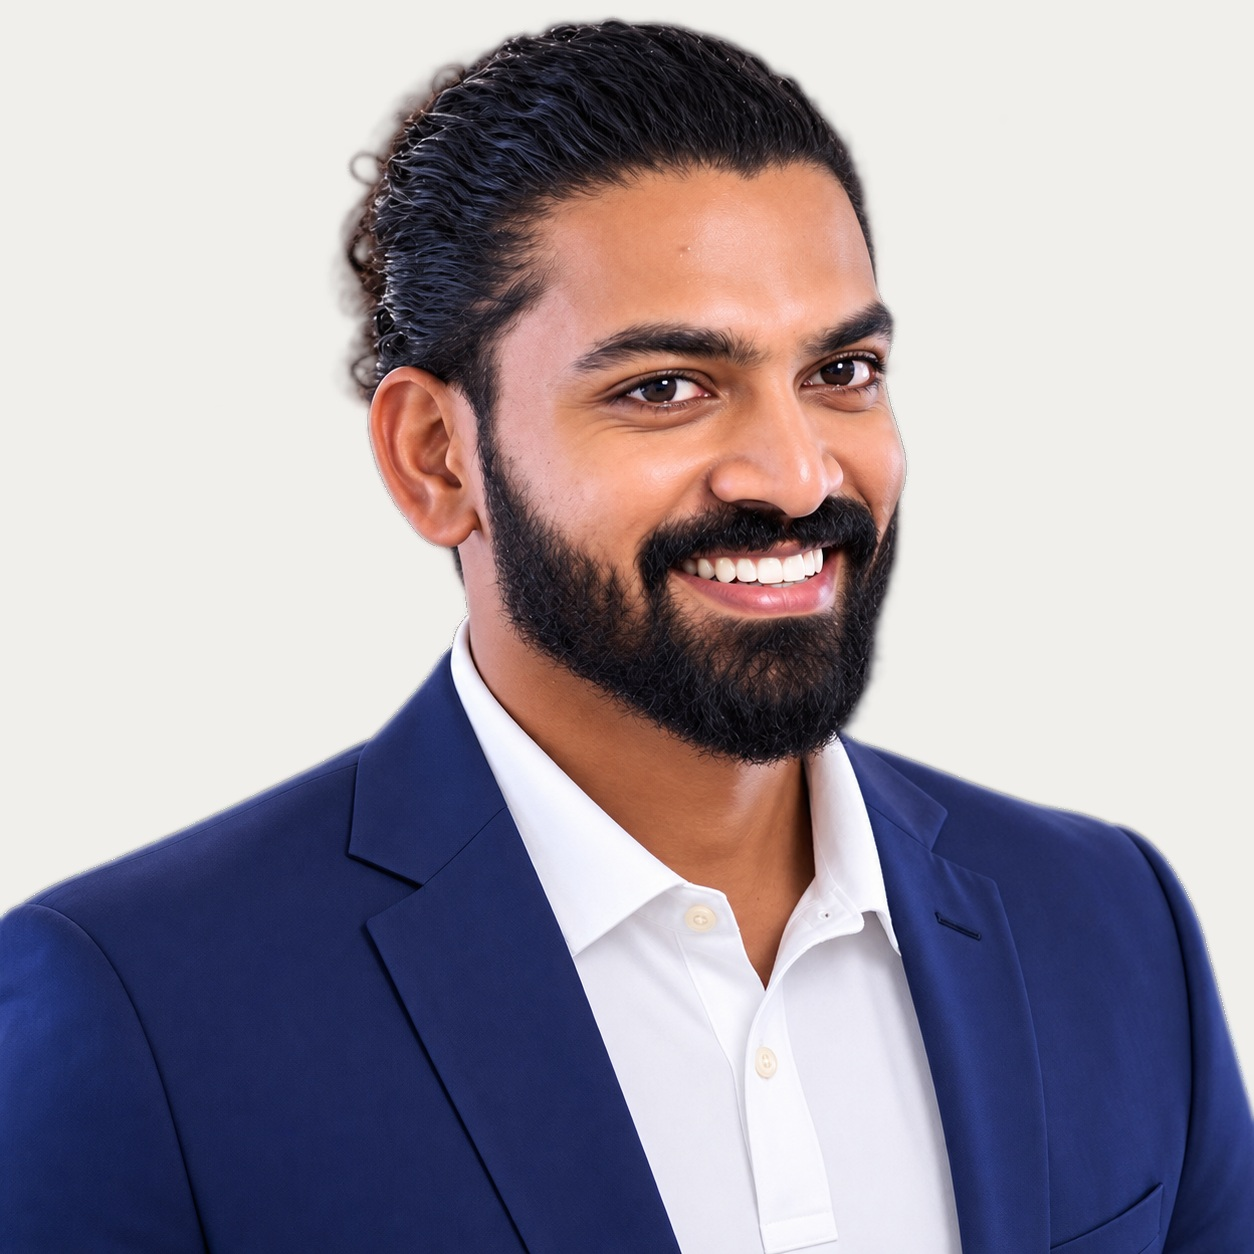
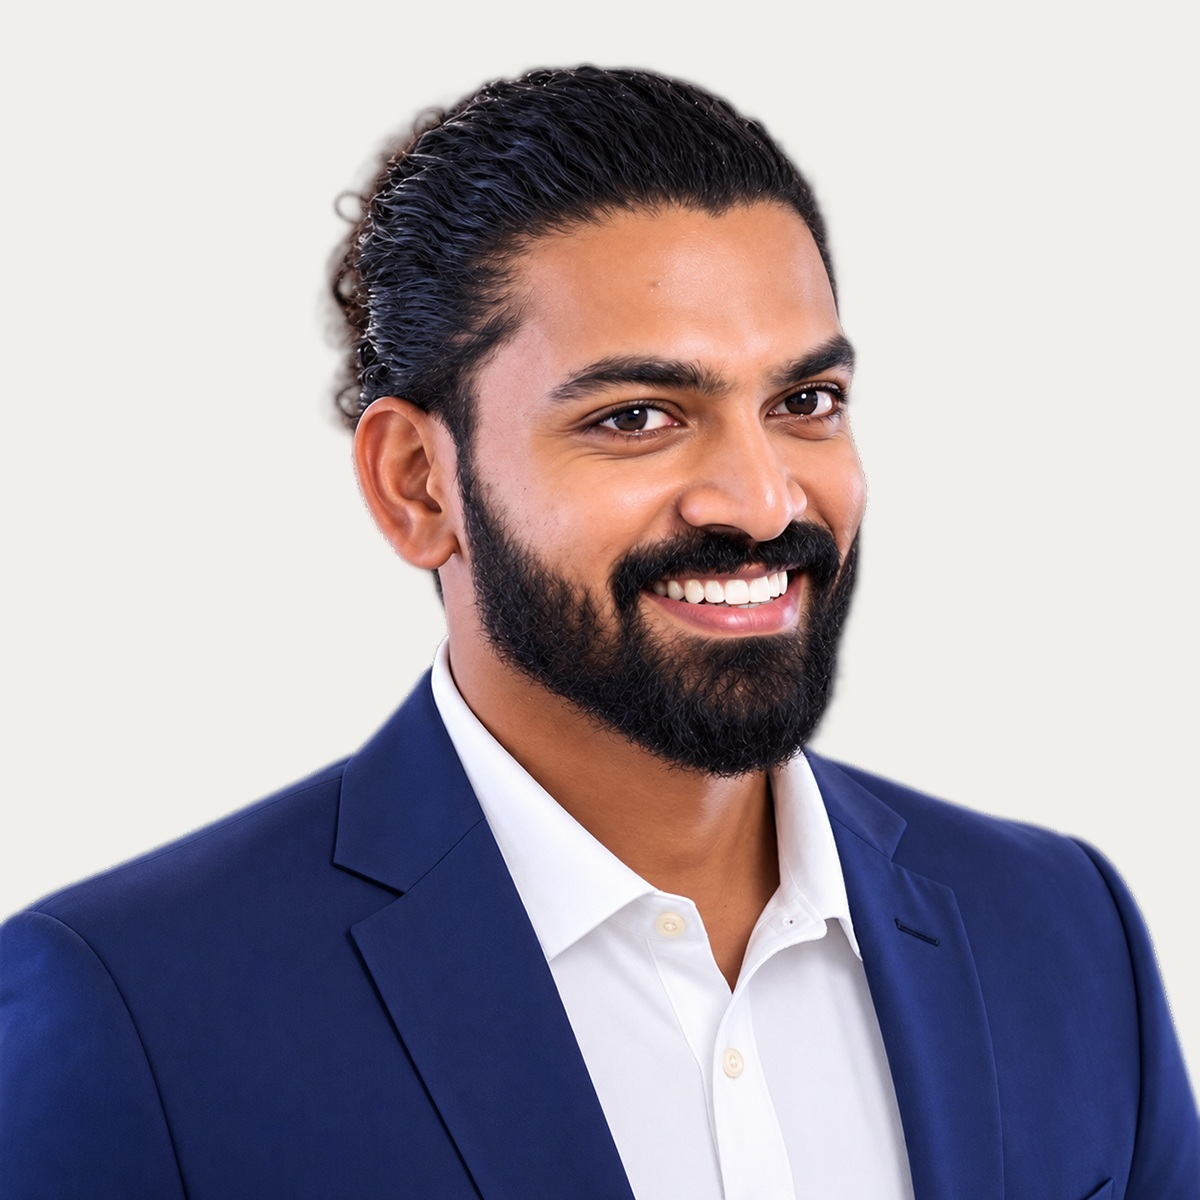
Swap in the newest photos for all three profiles
Three more updated photos landed (pragadeesh.png, sushinder.png,
raja.png — all 1200x1200 with transparency), replacing the previous
round again. Flattened the same way as before: neutral fill, alpha edge
feathered by 2px, no blur on the actual photo content.

One of these had a genuinely broken cutout — a red/white striped region
behind the head. Checked the raw pixels: alpha was 0 there despite
non-zero RGB, so it composites cleanly once flattened; the stripes were
an artifact of how a plain image viewer renders RGBA with "garbage"
color data under full transparency, not a problem in the shipped output.

Since all three are now a uniform 1200x1200, updated every width/height
pair referencing them — 9 in total across founder/cmo/co-founder heroes,
the two /leadership/ team cards for the other two people, and the three
home-page teaser cards — replacing the mismatched dimensions left over
from each photo's previous size (1254, 1002x1163, 896x1050/1195).

Verified: typecheck clean, build clean, 27 tests pass. All three assets
and all five pages (/, /leadership/, /founder/, /cmo/, /co-founder/)
return 200. Checked the leadership grid, the home teaser grid, and all
three individual heroes at 1440 — every photo fills its frame correctly
with no stretching.

diff --git a/app/(site)/leadership/page.tsx b/app/(site)/leadership/page.tsx
@@ -214,8 +214,8 @@ export default function Page() {
                 <img
                   src="/pragadeesh.jpg"
                   alt="Pragadeesh, Founder of Grow Spark Consulting"
-                  width={1254}
-                  height={1254}
+                  width={1200}
+                  height={1200}
                   loading="lazy"
                   decoding="async"
                   className="absolute inset-0 w-full h-full object-cover object-top transition-transform duration-500 ease-[var(--ease-out-expo)] group-hover:scale-[1.04]"
@@ -335,8 +335,8 @@ export default function Page() {
                 <img
                   src="/pragadeesh.jpg"
                   alt="Pragadeesh, Founder of Grow Spark Consulting"
-                  width={1254}
-                  height={1254}
+                  width={1200}
+                  height={1200}
                   loading="lazy"
                   decoding="async"
                   className="w-full h-full object-cover object-top"
@@ -376,8 +376,8 @@ export default function Page() {
                 <img
                   src="/susshinder.png"
                   alt="Susshinder S.A., Chief Marketing Officer of Grow Spark Consulting"
-                  width={1002}
-                  height={1163}
+                  width={1200}
+                  height={1200}
                   loading="lazy"
                   decoding="async"
                   className="w-full h-full object-cover object-top"
@@ -417,8 +417,8 @@ export default function Page() {
                 <img
                   src="/raja.png"
                   alt="Raja V., Co-Founder of Grow Spark Consulting"
-                  width={896}
-                  height={1050}
+                  width={1200}
+                  height={1200}
                   loading="lazy"
                   decoding="async"
                   className="w-full h-full object-cover object-top"

diff --git a/components/sections/Leadership.tsx b/components/sections/Leadership.tsx
@@ -42,8 +42,8 @@ export default function Leadership() {
                 <img
                   src="/pragadeesh.jpg"
                   alt="Pragadeesh, Founder of Grow Spark Consulting"
-                  width={1254}
-                  height={1254}
+                  width={1200}
+                  height={1200}
                   loading="lazy"
                   decoding="async"
                   className="w-full h-full object-cover object-top"
@@ -83,8 +83,8 @@ export default function Leadership() {
                 <img
                   src="/susshinder.png"
                   alt="Susshinder S.A., Chief Marketing Officer of Grow Spark Consulting"
-                  width={1002}
-                  height={1163}
+                  width={1200}
+                  height={1200}
                   loading="lazy"
                   decoding="async"
                   className="w-full h-full object-cover object-top"
@@ -124,8 +124,8 @@ export default function Leadership() {
                 <img
                   src="/raja.png"
                   alt="Raja V., Co-Founder of Grow Spark Consulting"
-                  width={896}
-                  height={1050}
+                  width={1200}
+                  height={1200}
                   loading="lazy"
                   decoding="async"
                   className="w-full h-full object-cover object-top"

diff --git a/app/(site)/cmo/page.tsx b/app/(site)/cmo/page.tsx
@@ -110,8 +110,8 @@ export default function Page() {
                 <img
                   src="/susshinder.png"
                   alt="Susshinder S.A., Chief Marketing Officer of Grow Spark Consulting"
-                  width={1002}
-                  height={1163}
+                  width={1200}
+                  height={1200}
                   loading="lazy"
                   decoding="async"
                   className="absolute inset-0 w-full h-full object-cover object-top"

diff --git a/app/(site)/founder/page.tsx b/app/(site)/founder/page.tsx
@@ -136,8 +136,8 @@ export default function Page() {
                 <img
                   src="/pragadeesh.jpg"
                   alt="Pragadeesh, Founder of Grow Spark Consulting"
-                  width={1254}
-                  height={1254}
+                  width={1200}
+                  height={1200}
                   loading="lazy"
                   decoding="async"
                   className="absolute inset-0 w-full h-full object-cover object-top"

diff --git a/app/(site)/co-founder/page.tsx b/app/(site)/co-founder/page.tsx
@@ -122,8 +122,8 @@ export default function Page() {
                 <img
                   src="/raja.png"
                   alt="Raja V., Co-Founder of Grow Spark Consulting"
-                  width={896}
-                  height={1050}
+                  width={1200}
+                  height={1200}
                   loading="lazy"
                   decoding="async"
                   className="absolute inset-0 w-full h-full object-cover object-top"
